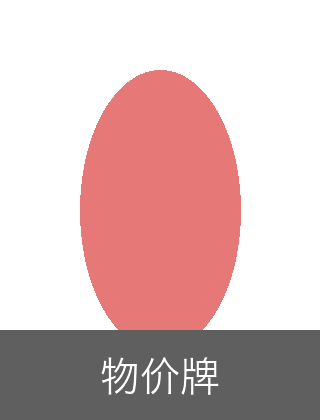
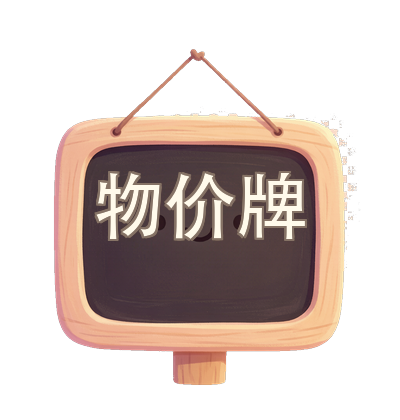
feat: 替换物价牌占位素材并优化单角色单道具布局
- 用 ImageGen + Pillow 重新生成 prop_物价牌.png：治愈卡通木质小黑板，
  去背景透明处理，文字用系统中文字体叠加避免 AI 乱码
- NarrationScene: 单角色 + 单道具时不再都居中重叠，改为角色居左、道具居右
- .env.example: 统一音色变量名为 AZURE_VOICE（与 tts.py 实际读取一致）

diff --git a/remotion/src/scenes/NarrationScene.tsx b/remotion/src/scenes/NarrationScene.tsx
@@ -116,31 +116,41 @@ export const NarrationScene: React.FC<NarrationSceneProps> = ({
         }}
       />
 
-      {/* 角色层：第一个角色在左，第二个在右 */}
+      {/* 角色层：第一个角色在左，第二个在右；只有一个角色且无道具时居中 */}
       {characters.map((el, i) => {
         const img = el.imagePath ?? resolveElementImage?.(el);
         if (!img) {
           return null;
         }
+        const charPosition = characters.length === 1 && props.length === 0
+          ? 'center'
+          : characters.length === 1
+            ? 'left'
+            : (i % 2 === 0 ? 'left' : 'right');
         return (
           <Character
             key={`${el.name}-${i}`}
             imagePath={img}
             enterFrom={el.enterFrom ?? 'none'}
             duration={sceneRelativeDuration}
-            position={characters.length === 1 ? 'center' : (i % 2 === 0 ? 'left' : 'right')}
+            position={charPosition}
             zIndex={el.zIndex ?? 2}
             floating
           />
         );
       })}
 
-      {/* 道具层：第一个道具在右，第二个在左（与角色互补） */}
+      {/* 道具层：与角色互补；只有一个道具且无角色时居中，有角色时放右侧 */}
       {props.map((el, i) => {
         const img = el.imagePath ?? resolveElementImage?.(el);
         if (!img) {
           return null;
         }
+        const propPosition = props.length === 1 && characters.length === 0
+          ? 'center'
+          : props.length === 1
+            ? 'right'
+            : (i % 2 === 0 ? 'right' : 'left');
         // 竖屏道具比例：高度相对 VIDEO_HEIGHT，单个居中在上，多个左右分布
         const scale =
           el.name === '超市货架' ? 0.25 :
@@ -154,7 +164,7 @@ export const NarrationScene: React.FC<NarrationSceneProps> = ({
             imagePath={img}
             enterFrom={el.enterFrom ?? 'right'}
             duration={[sceneRelativeDuration[0] + 0.3, sceneRelativeDuration[1]]}
-            position={props.length === 1 ? 'center' : (i % 2 === 0 ? 'left' : 'right')}
+            position={propPosition}
             scale={scale}
             zIndex={el.zIndex ?? 3}
           />

diff --git a/.workbuddy/memory/2026-08-18.md b/.workbuddy/memory/2026-08-18.md
@@ -108,3 +108,28 @@
   - 关键经验固化：口播稿空行分段=场景数；段落内可自由用问号（tts.py 段落聚合对齐）；字幕高亮放 scene-config 而非代码硬编码；封面提示词避开 AI 绘字（乱码），文字用 Pillow 叠中文（需指定系统中文字体）
   - quick_validate 校验通过
 - 与既有 skill 分工：`ai-video-stage2-pipeline`=阶段二脚本化流水线；本技能=生态内化路线的演进与一键复现
+
+### Git 首次提交推送（2026-08-18）
+- 项目初始化 git 仓库并推送到 https://github.com/summerain0401/videoShort.git（main 分支，115 objects / 11.09 MiB）
+- 首次提交：89 个文件，覆盖 Remotion 渲染工程 + 脚本流水线 + C001~C003 项目
+- .gitignore 本次补充：`.env`、`build/`（Remotion 产物，可重建）
+- 提交身份：winterstorm <724235390@qq.com>
+- 注意：成片 mp4/配音 mp3/qa 报告/生成素材默认不入库，需要时用 git add -f
+
+### Azure 引擎验证通过（2026-08-18）
+- 用户配置 .env 后切换 Azure 引擎，踩坑并修复三处：
+  1. .env 变量名 AZURE_REGION → AZURE_SPEECH_REGION（pipeline.sh 增加旧名兼容映射）
+  2. SDK 1.51.1 事件名 word_boundary → synthesis_word_boundary（旧名 AttributeError）
+  3. SDK 1.51.1 的 duration 为 timedelta，统一转 100ns tick（datetime import）
+- tts.py 支持 AZURE_VOICE 环境变量（用户音色 zh-CN-Xiaochen:DragonHDFlashLatestNeural，DragonHD 新版带版本后缀），音色优先级 --voice > AZURE_VOICE > 云希
+- pipeline.sh cmd_voice 未显式传音色时不传 --voice，让 AZURE_VOICE 生效
+- C003 Azure 版成片：49.5s 配音 / 57.6s 成片，1080x1920 h264+aac，tech pass / 语义 0 告警 / 无黑屏
+- 提交 34c3a73（2 files），技能 workbuddy-ecosystem-video-production 已固化 SDK 版本坑
+
+### 成片静音根因修复（2026-08-18 14:50）
+- 用户反馈成片没声音。诊断：voice.mp3 正常（-21dB）但成片 -91dB 纯静音
+- 根因：render.mjs 用 path.join(ROOT, timeline.audioFile) 拼路径——timeline.audioFile 是**绝对路径**时 path.join 不重置前缀（只有 path.resolve 会），拼出 ROOT/Volumes/... 不存在路径 → existsSync=false → 配音从未复制到 public/_audio/ → narration=undefined → 渲染静音轨
+- 影响：C001/C002/C003 所有成片一直静音（此前只反馈过画面问题）
+- 修复：path.resolve + 打印复制结果/告警；C003 重渲后 mean -24.8dB ✅
+- 提交 985521e；技能已固化「静音排查」章节
+- 待办：C002 重渲验证
